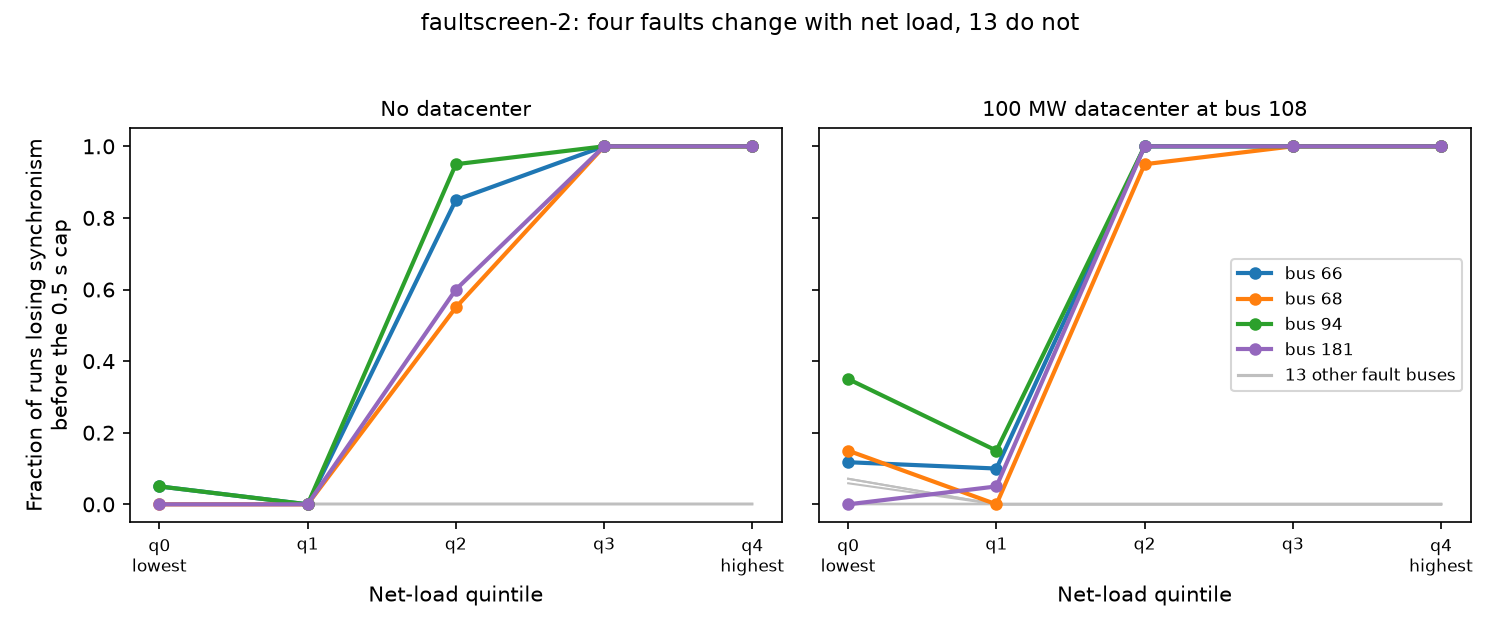
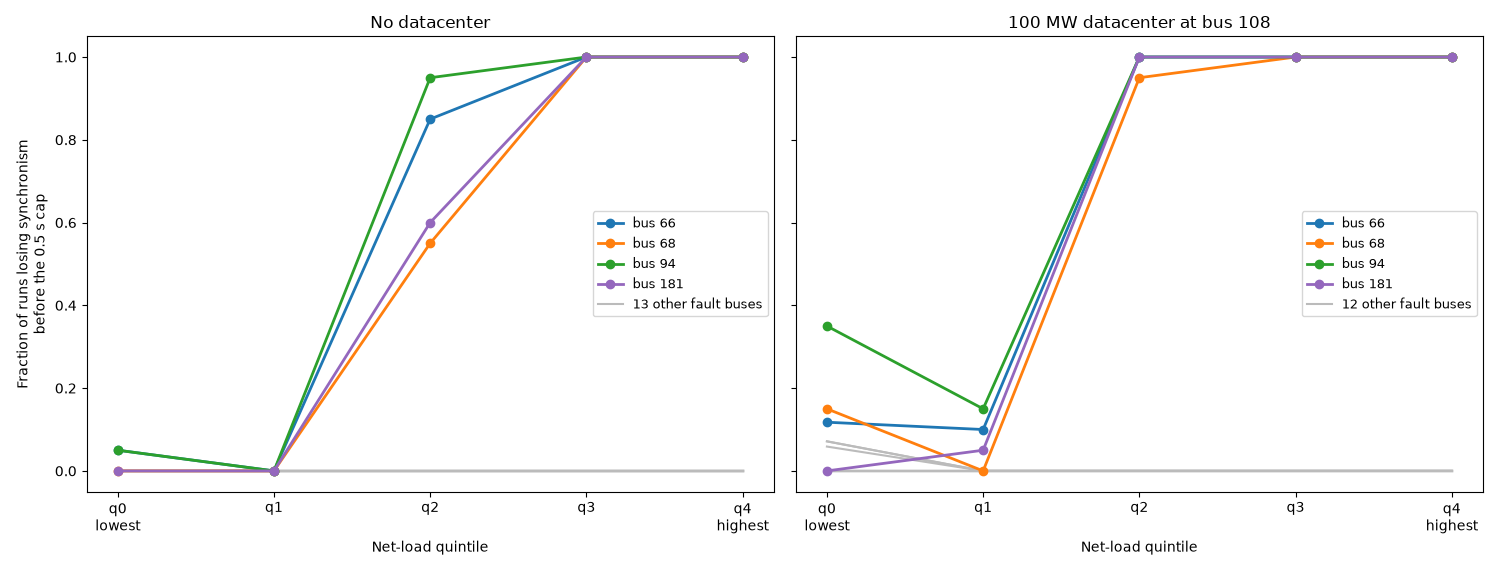
report adjustments hpc

diff --git a/uq-usecase/scripts/plot_faultscreen2_lost_by_quintile.py b/uq-usecase/scripts/plot_faultscreen2_lost_by_quintile.py
@@ -1,0 +1,87 @@
+"""Figure 7.6: share of faultscreen-2 runs losing synchronism before the 0.5 s cap,
+by net-load quintile, for each fault bus.
+
+Left panel: no datacenter. Right panel: 100 MW datacenter at bus 108.
+Denominator per point: runs with status 'ok' and a CCT (sim_failed and solve_failed
+runs are excluded). Quintiles are the `bin` column (q0 lowest to q4 highest net load).
+No title is drawn: the report caption carries it.
+
+python plot_faultscreen2_lost_by_quintile.py [--out <png>]
+"""
+import argparse
+from pathlib import Path
+
+import matplotlib
+
+matplotlib.use("Agg")
+import matplotlib.pyplot as plt
+import pandas as pd
+
+ROOT = Path("/kfs2/projects/scidac/scidac-data/gridkit-campaigns")
+CAMPAIGN = "faultscreen2_ap08_qlim"
+DEFAULT_OUT = Path("/home/isatkaus/gridkit/uq-usecase/work-notes/figures/main_faultscreen2_lost_by_quintile.png")
+BINS = ["q0", "q1", "q2", "q3", "q4"]
+NAMED = {66: "C0", 68: "C1", 94: "C2", 181: "C4"}  # colours as in the report figure
+DC_BUS = 108
+DC_MW = 100
+
+
+def shares(ok, fault_buses):
+    """Loss share per (fault bus, quintile): lost / runs with CCT."""
+    S = ok[ok.fault_bus.isin(fault_buses)]
+    g = S.groupby(["fault_bus", "bin"])["lost"].agg(["sum", "size"])
+    return (g["sum"] / g["size"]).unstack("bin").reindex(columns=BINS)
+
+
+def main():
+    ap = argparse.ArgumentParser()
+    ap.add_argument("--out", type=Path, default=DEFAULT_OUT)
+    args = ap.parse_args()
+
+    R = pd.read_parquet(ROOT / CAMPAIGN / "results.parquet")
+    ok = R[(R.status == "ok") & R.cct_s.notna()].copy()
+    ok["lost"] = ~ok.cct_censored.astype(bool)
+
+    base = ok[ok.dc_mw.fillna(0) == 0]
+    dc = ok[(ok.dc_mw == DC_MW) & (ok.dc_bus == DC_BUS)]
+
+    all_buses = sorted(R.fault_bus.dropna().astype(int).unique())
+    others_base = [b for b in all_buses if b not in NAMED]
+    panels = [("No datacenter", base, others_base), (f"{DC_MW} MW datacenter at bus {DC_BUS}", dc, None)]
+
+    fig, axes = plt.subplots(1, 2, figsize=(15, 5.7), dpi=100, sharey=True)
+    for ax, (title, data, others) in zip(axes, panels):
+        present = sorted(data.fault_bus.dropna().astype(int).unique())
+        if others is None:
+            others = [b for b in present if b not in NAMED]
+        table = shares(data, present)
+        x = range(len(BINS))
+        n_others = 0
+        for b in others:
+            if b not in table.index:
+                continue
+            n_others += 1
+            ax.plot(x, table.loc[b].values, color="#bbbbbb", lw=1.5)
+        for b, col in NAMED.items():
+            if b in table.index:
+                ax.plot(x, table.loc[b].values, color=col, lw=2, marker="o", label=f"bus {b}")
+        if n_others:
+            ax.plot([], [], color="#bbbbbb", lw=1.5, label=f"{n_others} other fault buses")
+        ax.set_xticks(list(x))
+        ax.set_xticklabels([f"{q}\nlowest" if q == "q0" else f"{q}\nhighest" if q == "q4" else q for q in BINS])
+        ax.set_xlabel("Net-load quintile")
+        ax.set_title(title)
+        ax.set_ylim(-0.05, 1.05)
+        ax.legend(loc="center right", fontsize=9)
+        print(f"{title}: {n_others} other fault buses with CCT data; "
+              f"fault buses present: {present}")
+
+    axes[0].set_ylabel("Fraction of runs losing synchronism\nbefore the 0.5 s cap")
+    fig.tight_layout()
+    args.out.parent.mkdir(parents=True, exist_ok=True)
+    fig.savefig(args.out, dpi=100)
+    print(f"wrote {args.out}")
+
+
+if __name__ == "__main__":
+    main()

diff --git a/uq-usecase/work-notes/datacenter_pilot_report.md b/uq-usecase/work-notes/datacenter_pilot_report.md
@@ -587,7 +587,7 @@ Before spending runs on a full campaign, we need to know which faults can tell o
 
 ![Fraction of runs losing synchronism before the cap, by net-load quintile, for 17 fault buses](figures/main_faultscreen2_lost_by_quintile.png)
 
-*Figure 7.6. Share of runs that lose synchronism before the 0.5 s cap, by net-load quintile (q0 lowest, q4 highest), for each of 17 fault buses. Left: no datacenter. Right: 100 MW datacenter at bus 108. Each point is 20 runs without the datacenter and 6 to 20 with it (simulation failures removed).*
+*Figure 7.6. faultscreen-2: four faults change with net load, and 13 do not. Share of runs that lose synchronism before the 0.5 s cap, by net-load quintile (q0 lowest, q4 highest), for each of 17 fault buses. Left: no datacenter. Right: 100 MW datacenter at bus 108. Each point is 20 runs without the datacenter and 6 to 20 with it (simulation failures removed).*
 
 As shown in Figure 7.6, each line is one fault bus, and each point is the share of its runs that lose synchronism before the cap, in one net-load quintile. A fault separates conditions when that share changes across quintiles. Four buses (66, 68, 94 and 181) separate conditions, because they lose synchronism more often at high net load. The other 13 buses stay flat at zero, because every run stays censored past the cap. A flat line means the fault tells us nothing about separation. It does not mean the fault has no effect.
 
@@ -662,9 +662,10 @@ We ran only setup checks, single-run checks and memory probes on the 2,000-bus c
 ## 9. Next steps
 
 The pilot leaves a clear picture of where cost lives and therefore where the
-methods work should go. At 200 buses the expensive part is the **dispatch stage**, and
-interesting dimensions such as contingency location or disturbance
-severity are nearly free once a dispatch exists. However, at 2,000 buses
+methods work should go. At 200 buses the expensive part is the **dispatch stage**. Once a
+dispatch exists, the other dimensions are cheaper to explore: contingency location,
+load placement and size, and the aleatoric samples. Each still needs its own dynamic
+run, so they are cheap relative to the dispatch. However, at 2,000 buses
 (§8), the dynamic run dominates, the design space grows by
 two orders of magnitude, and the quantity to minimise becomes the number of dynamic
 simulations. Making aleatoric UQ affordable at that scale is **FY27 planned
@@ -672,26 +673,25 @@ work**, pursued along two tracks.
 
 **Track 1: spend fewer, better-chosen dynamic runs.** 
 
-1. **Screen contingencies cheaply, then concentrate.** Here 13 of 17 fault
+1. **Screen contingencies cheaply, then concentrate.** As faultscreen-2 showed, 13 of 17 fault
    locations were censored in every baseline run, and four separated conditions (§7.6). On a
-   2k-bus case the contingency list is the part that explodes and also the part
-   that is free to explore.
-2. **Treat censoring as information.** Both "survived beyond the cap" and
-   "no outcome" are results, and at high censoring they are most of the dataset.
-   A cheap 1–2 run classifier that detects the censored case before committing to
-   an 8-run CCT bisection would remove most of the cost.
-3. **Condition and stratify, rather than only adding samples.** CCT spread follows
-   net load (§7.5), so stratified or importance sampling on
-   net load cuts variance at fixed cost; a variance decomposition of the existing
-   840 runs is a zero-cost first step.
-4. **Surrogate or warm-started CCT, and early-terminating integration.**
-   Neighbouring dispatches have strongly correlated CCT, and pole slip is
-   detectable well before the end of the simulated window, so both the number and the length of
-   simulations can be cut.
+   2,000-bus case the contingency list grows with the grid, and each fault still needs its own
+   dynamic run, so screening it is where cost can be cut.
+2. **Reduce the cost of each CCT search.** A censored run already needs only two simulations,
+   so the cost sits in the bisection for measured runs. Neighbouring dispatches have strongly
+   correlated CCT, so starting the search from one could cut the bisection steps. Pole slip is
+   also detectable well before the end of the simulated window, so early termination could
+   shorten each run. Both would lower the cost, provided early termination is checked against
+   full runs.
+3. **Condition and stratify, rather than only adding samples.** In aleatoric-1, censoring falls
+   from 83% in the lowest net-load quintile to 0% in the top two (§7.5). In faultscreen-2, fault
+   location explains more than half of the variance. A variance decomposition of pre-screen runs
+   could rank the candidate factors: fault location, net load, and datacenter placement and size.
+   Stratified or importance sampling on the top-ranked factors could then cut variance at fixed cost.
 
 
 **Track 2: a graph surrogate, as an alternative and supplement to sampling.**
-The grid is intrinsically a graph: the admittance matrix is a weighted Laplacian over buses, a fault propagates through branch impedances as a message-passing process, and "which bus to site load at" is itself a graph question. Graph neural networks and graph transformers carry exactly that inductive bias, and have been used as fast power-system surrogates [21]. A surrogate trained on the records the sampling campaigns already produce, e.g., (graph, operating point, parameters, fault) → trajectory map, could emulate CCT or the stability label cheaply, turning the expensive solver into a screening tool [22]. Full dynamic runs could be reserved for confirmation and for labelling the cases where the surrogate is least certain, an active-learning approach that chooses which runs to do. This is **supplemental** to sampling-based UQ, not a replacement: the surrogate lowers per-sample cost, while the sampling design still fixes what the estimate means [23].
+The grid is intrinsically a graph: the admittance matrix is a weighted Laplacian over buses, a fault propagates through branch impedances as a message-passing process, and "which bus to site load at" is itself a graph question. Graph neural networks and graph transformers carry exactly that inductive bias, and have been used as fast power-system surrogates [21]. A surrogate trained on the records the sampling campaigns already produce, e.g., (graph, operating point, parameters, fault) → trajectory map, could emulate CCT or the stability label cheaply, turning the expensive solver into a screening tool [22]. Full dynamic runs would still confirm results and cover the cases where the surrogate is least certain, and active learning would choose which runs to add next. This is **supplemental** to sampling-based UQ, not a replacement: the surrogate lowers per-sample cost, while the sampling design still fixes what the estimate means [23].
 
 The near-term steps are: a wider contingency screen, a
 treatment of censoring in the paired (with and without datacenter) comparison,

diff --git a/uq-usecase/work-notes/dc_campaign_pipeline.md b/uq-usecase/work-notes/dc_campaign_pipeline.md
@@ -124,6 +124,7 @@ Do **not** export it globally: that makes Julia load the wrong SuiteSparse.
 | `scripts/dispatch_margin.py` | 63 | Committed thermal PMAX minus `net_mw` per dispatch (net_mw includes the datacenter MW), to test DC OPF infeasibility. `python dispatch_margin.py <campaign>` |
 | `scripts/dispatch_pf_probe.py` | 82 | Solves four `solve_failed` operating points from `faultscreen1` with Q limits off and on, logging each Julia batch pass. Writes only to scratch `dispatch_probe/`. `python dispatch_pf_probe.py` |
 | `scripts/plot_delta_unstable_vs_censored.py` | 97 | Report Figure 5.1: rotor-angle deviation from COI (`$\delta_i - \delta_{COI}$`, rad, $\pi$ ticks) for one unstable and one censored replay, same time axis. Inputs are replay folders with `case.json`, `solver.json` and `replay.csv`; fault times come from `solver.json`. `python plot_delta_unstable_vs_censored.py <unstable_dir> <censored_dir> --out <png>`. Current inputs: `/scratch/isatkaus/dc_delta_replay/base` (hour 4674, 0.25 s fault) and `…/censored` (hour 1252, 0.5 s fault); output `work-notes/figures/delta_unstable_vs_censored.png` |
+| `scripts/plot_faultscreen2_lost_by_quintile.py` | 87 | Report Figure 7.6: share of faultscreen-2 runs losing synchronism before the 0.5 s cap, by net-load quintile (`bin`), one line per fault bus. Left: no datacenter. Right: 100 MW at bus 108. Denominator is ok runs with a CCT. No title is drawn (the report caption carries it). Input: `faultscreen2_ap08_qlim/results.parquet`. `python plot_faultscreen2_lost_by_quintile.py [--out <png>]`. Default output `work-notes/figures/main_faultscreen2_lost_by_quintile.png`. The `test_figs/faultscreen2_lost_by_quintile_all.png` copy is made with `--out` |
 | `scripts/fold_check_h1879.py` | 72 | Checks h1879 sim-failed rows against the fixed-state fold sets (`ida_zoom/fixed_state/alpha_sweep.csv`, IDACalcIC at 200 MW). Assumes the sweep used the same datacenter bus (not checked). `python fold_check_h1879.py` |
 | `scripts/check_docs.py` | — | validates work-notes tables, fences, anchors, links |
 

diff --git a/uq-usecase/work-notes/test_figs.md b/uq-usecase/work-notes/test_figs.md
@@ -14,7 +14,7 @@ Verification: both panels are replays of the stored `case.json` and `solver.json
 
 *Figure 2. For each fault bus, the fraction of runs that lose synchronism before the 0.5 s cap, by net-load quintile from q0 (lowest) to q4 (highest). Left: no datacenter. Right: 100 MW datacenter at bus 108. Each point is the share of about 20 runs per quintile. Buses 66, 68, 94 and 181 rise from near zero at low net load to near one at high net load, which means they separate conditions. The other 13 buses stay at or near zero in every quintile (at most 0.07), so they do not separate the conditions.*
 
-Verification: computed from `faultscreen2_ap08_qlim/results.parquet`, ok runs with a CCT (3,166 of 3,400). A run loses synchronism when `cct_censored` is false. Sim-failed runs are excluded from each point's denominator. Figure 2 replaces the earlier per-condition plot of faultscreen-1. That file stays in `test_figs/` for reference.
+Verification: computed from `faultscreen2_ap08_qlim/results.parquet`, ok runs with a CCT (3,166 of 3,400). A run loses synchronism when `cct_censored` is false. Sim-failed runs are excluded from each point's denominator. Figure 2 replaces the earlier per-condition plot of faultscreen-1. That file stays in `test_figs/` for reference. Regenerate from the repo root with `python scripts/plot_faultscreen2_lost_by_quintile.py --out work-notes/test_figs/faultscreen2_lost_by_quintile_all.png` (see `dc_campaign_pipeline.md`).
 
 ## Figure 3: which faults separate the highest net-load quintile (faultscreen-2)
 
